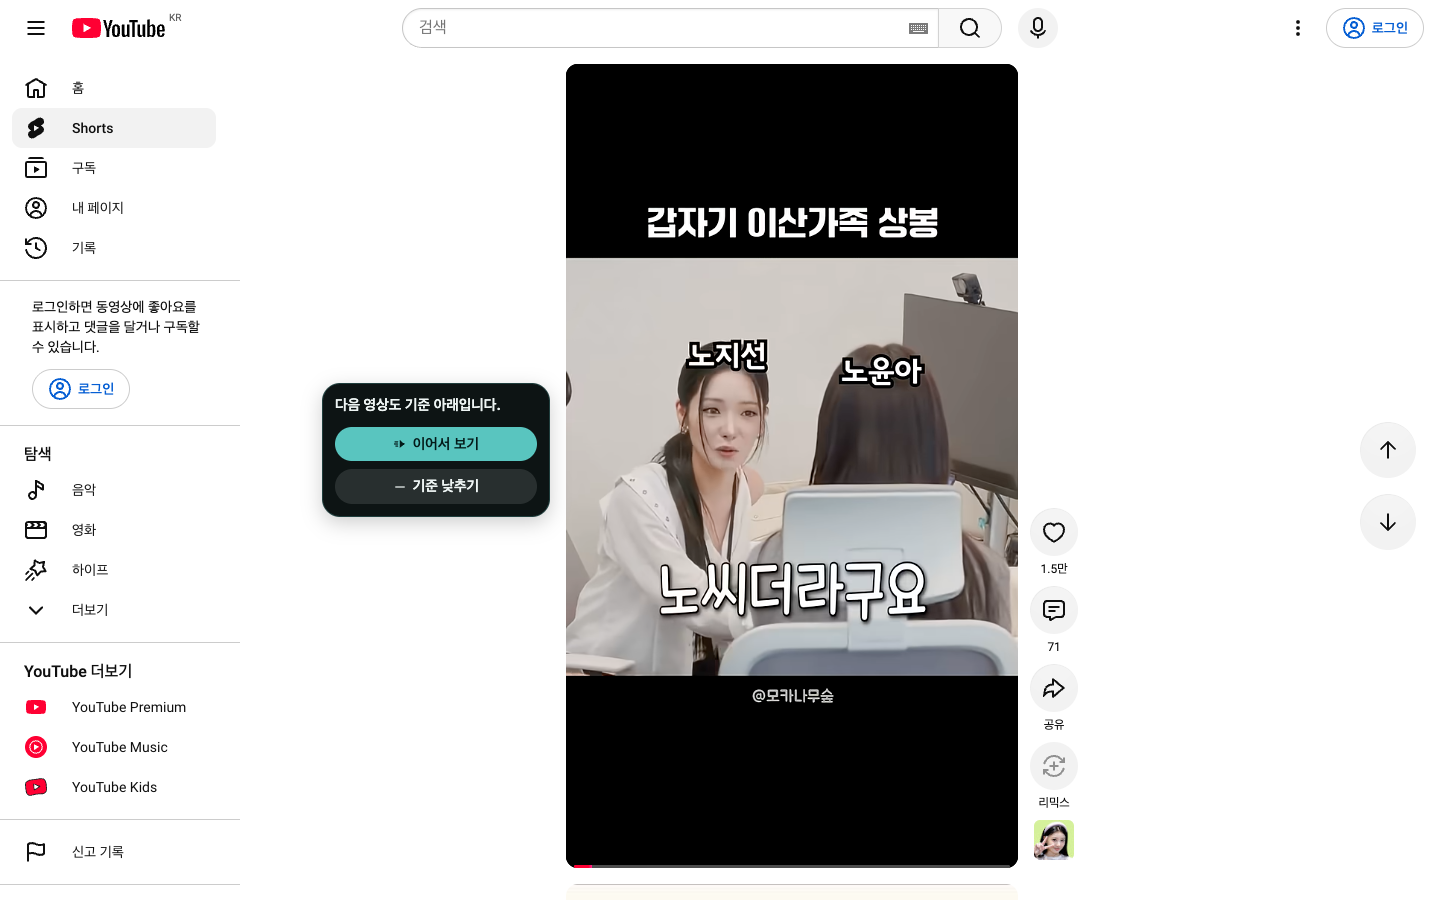
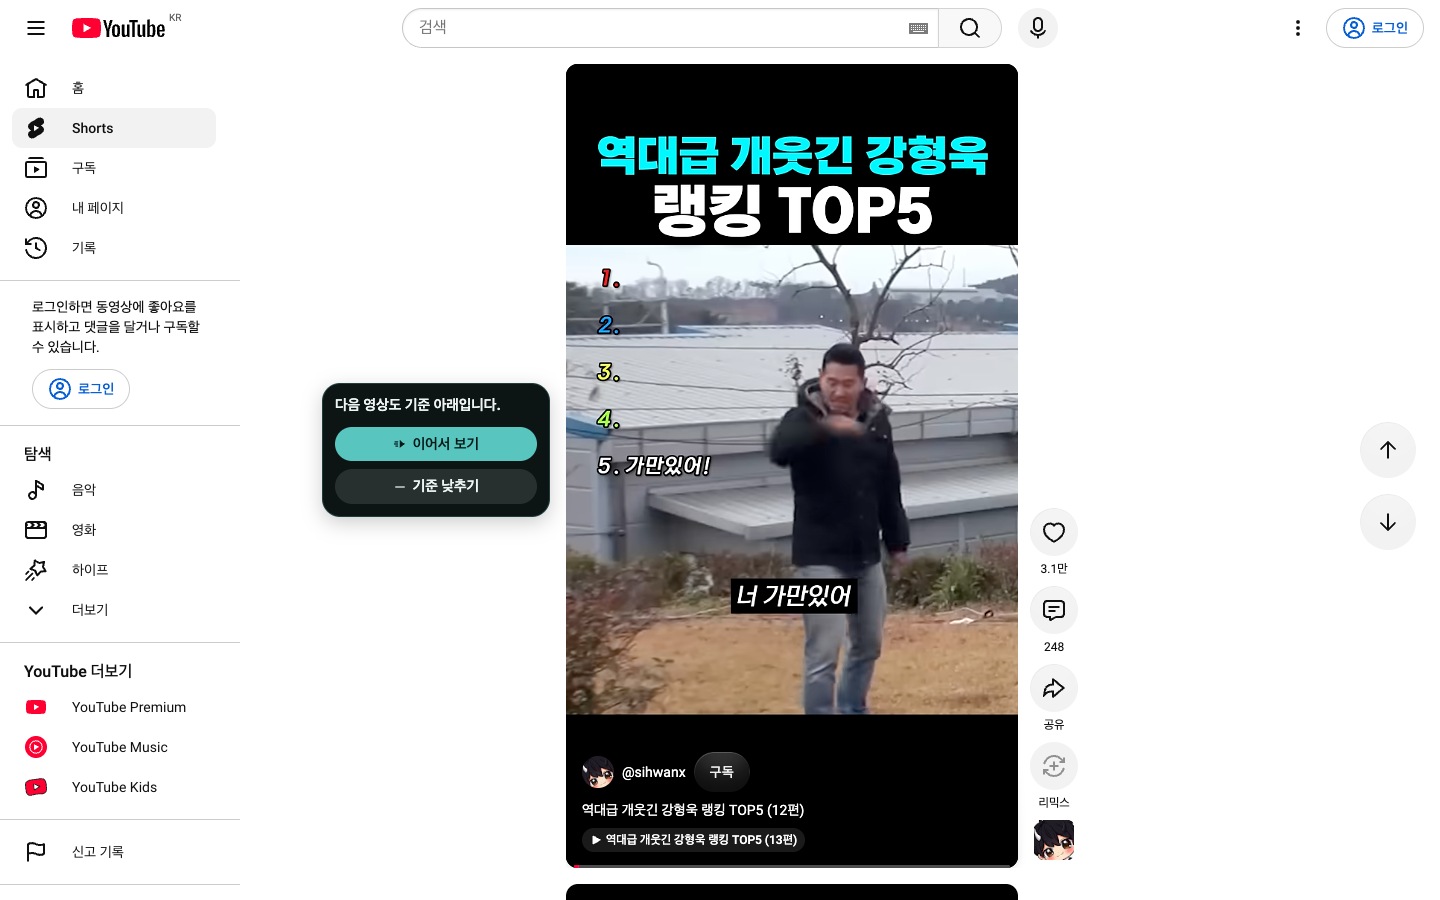
Hide notices while the player column animates

Changed region(s): [[0.375, 0.1244, 0.7188, 0.8089], [0.375, 0.84, 0.7188, 1.0], [0.7188, 0.9022, 0.75, 0.9644]]

diff --git a/src/content/chip.ts b/src/content/chip.ts
@@ -97,7 +97,8 @@ export function mountChip(actions: { undo: () => void; keepGoing: () => void; lo
   let previousModel = "null";
   let watching = false;
   let frame: number | null = null;
-  let motionUntil = 0;
+  const transitions = new Map<Element, Set<string>>();
+  let transitionFocus: HTMLElement | null = null;
   let watchedAnchor: HTMLElement | null = null;
   const ancestors = new Set<Element>();
   const resized = new ResizeObserver(() => queuePlace());
@@ -128,11 +129,26 @@ export function mountChip(actions: { undo: () => void; keepGoing: () => void; lo
     window.addEventListener("scroll", () => queuePlace(), { capture: true, passive: true });
     document.addEventListener("transitionrun", (event) => {
       if (!watching || !(event.target instanceof Element) || !ancestors.has(event.target)) return;
-      // Follow the moving column while a panel animates. There is no repeating placement work on an idle page.
-      motionUntil = performance.now() + 600;
-      queuePlace();
+      if (!transitions.size && document.activeElement === host) {
+        const focused = host?.shadowRoot?.activeElement;
+        transitionFocus = focused instanceof HTMLElement ? focused : null;
+      }
+      // A delayed frame can move the player farther than the gutter gap. Hide through the transition instead of chasing it.
+      const properties = transitions.get(event.target) ?? new Set<string>();
+      properties.add(event.propertyName);
+      transitions.set(event.target, properties);
+      if (host) host.style.visibility = "hidden";
     }, true);
-    document.addEventListener("transitionend", () => queuePlace(), true);
+    const endTransition = (event: TransitionEvent) => {
+      if (!(event.target instanceof Element)) return;
+      const properties = transitions.get(event.target);
+      if (!properties) return;
+      properties.delete(event.propertyName);
+      if (!properties.size) transitions.delete(event.target);
+      queuePlace();
+    };
+    document.addEventListener("transitionend", endTransition, true);
+    document.addEventListener("transitioncancel", endTransition, true);
     document.addEventListener("visibilitychange", () => {
       if (document.hidden) stopWatching();
       else if (previousModel !== "null") { startWatching(); place(); }
@@ -145,7 +161,6 @@ export function mountChip(actions: { undo: () => void; keepGoing: () => void; lo
       frame = null;
       if (!watching || document.hidden) return;
       place();
-      if (performance.now() < motionUntil) queuePlace();
     });
   }
 
@@ -157,6 +172,7 @@ export function mountChip(actions: { undo: () => void; keepGoing: () => void; lo
     resized.disconnect();
     ancestors.clear();
     watchedAnchor = anchor;
+    for (const node of transitions.keys()) if (!chain.includes(node)) transitions.delete(node);
     for (const node of chain) {
       ancestors.add(node);
       resized.observe(node);
@@ -175,7 +191,8 @@ export function mountChip(actions: { undo: () => void; keepGoing: () => void; lo
     resized.disconnect();
     ancestors.clear();
     watchedAnchor = null;
-    motionUntil = 0;
+    transitions.clear();
+    transitionFocus = null;
     if (frame != null) cancelAnimationFrame(frame);
     frame = null;
     if (placeTimer != null) window.clearTimeout(placeTimer);
@@ -245,8 +262,13 @@ export function mountChip(actions: { undo: () => void; keepGoing: () => void; lo
     const onScreen = !!box && box.width > 0 && box.height > 0 && box.right > 0 && box.left < width && box.bottom > 0 && box.top < window.innerHeight;
     // Hide before measuring or moving, so a comments panel cannot reveal a stale position over the video.
     host.style.visibility = "hidden";
+    if (transitions.size) return;
     if (!box || !onScreen || !placeSide(box)) return;
     host.style.visibility = "visible";
+    if (transitionFocus?.isConnected && (document.activeElement === document.body || document.activeElement === host)) {
+      transitionFocus.focus({ preventScroll: true });
+    }
+    transitionFocus = null;
   }
 
   // Place the chip now, and once more a moment later: the video of a feed that is still swapping players may not be there yet.

diff --git a/qa/reviews/left-notice-20261014.html b/qa/reviews/left-notice-20261014.html
@@ -13,7 +13,7 @@
   <img id="run-shot" class="shot" src="../screenshots/left-notice-20261014/08-live-run-comments-open.png" alt="유튜브 댓글을 연 상태에서 왼쪽 여백에 숫자 3과 되돌리기만 표시">
   <p id="run-caption" class="caption"><strong>44px 안에 3과 되돌리기.</strong> 로고와 제목 없이, 영상과 사이드바 사이에 정렬했습니다.</p>
 </div>
-<div class="facts"><div class="fact"><strong>항상 왼쪽</strong><p>오른쪽 대체 배치와 영상 위 배치를 제거했습니다. 예전 위치 설정도 왼쪽으로 통일됩니다.</p></div><div class="fact"><strong>열고 닫으면 함께 이동</strong><p>표시 내용이 같아도 영상의 이동을 따라갑니다. 되돌리기 버튼의 포커스도 유지합니다.</p></div><div class="fact"><strong>자리 없으면 잠시 숨김</strong><p>왼쪽 공간이 없을 때는 화면을 가리지 않습니다. 공간이 생기면 다시 표시합니다.</p></div></div>
+<div class="facts"><div class="fact"><strong>항상 왼쪽</strong><p>오른쪽 대체 배치와 영상 위 배치를 제거했습니다. 예전 위치 설정도 왼쪽으로 통일됩니다.</p></div><div class="fact"><strong>열고 닫으면 함께 이동</strong><p>패널이 움직이는 동안 잠시 숨기고, 이동한 영상의 왼쪽에 다시 표시합니다. 되돌리기 버튼의 포커스도 유지합니다.</p></div><div class="fact"><strong>자리 없으면 잠시 숨김</strong><p>왼쪽 공간이 없을 때는 화면을 가리지 않습니다. 공간이 생기면 다시 표시합니다.</p></div></div>
 <h2>연속 6개에서 멈추는 표시도 같은 규칙</h2><p>좁은 상태에서도 이어서 보기와 기준 낮추기를 사용할 수 있습니다.</p>
 <div class="viewer"><div class="bar"><div class="tabs" aria-label="일시정지 캡처"><button type="button" data-pause="closed" aria-pressed="false">닫힘</button><button type="button" data-pause="open" aria-pressed="true">열림</button><button type="button" data-pause="again" aria-pressed="false">다시 닫힘</button></div><span class="state">같은 영상 · 댓글 열고 닫기</span></div><img id="pause-shot" class="shot" src="../screenshots/left-notice-20261014/05-live-pause-comments-open.png" alt="댓글을 연 유튜브에서 왼쪽에 작은 이어서 보기와 기준 낮추기 버튼"><p class="caption">댓글을 닫으면 왼쪽 카드로 돌아옵니다. 작은 버튼에도 이름과 툴팁이 있습니다.</p></div>
 <h2>확인한 범위</h2><p>단위 검사 126개, 브라우저 전체 검사 78개 및 위치 추가 검사, 빌드와 패키지 검사를 통과했습니다. 위치를 위한 상시 반복 조회도 제거했습니다.</p>

diff --git a/e2e/chip-layout.spec.ts b/e2e/chip-layout.spec.ts
@@ -135,7 +135,7 @@ test("a reparented player keeps following its new container's layout", async ({ 
   expect((await host.boundingBox())!.x + 228).toBeCloseTo(549.875, 0);
 });
 
-test("animated column changes keep the notice left throughout the motion", async ({ page }) => {
+test("animated column changes hide the notice until its left gutter settles", async ({ page }) => {
   await open(page);
   await page.locator("video").evaluate((node: HTMLVideoElement) => { node.style.transition = "left 400ms linear"; });
   await move(page, 301.875);
@@ -148,9 +148,23 @@ test("animated column changes keep the notice left throughout the motion", async
     }
     return values;
   });
-  // Allow one frame of website motion before the matching placement callback runs.
+  expect(observations.some(value => !value.visible), "the notice stays out of a moving player").toBe(true);
   expect(observations.filter(value => value.visible).every(value => value.right <= value.videoLeft + 1)).toBe(true);
+  await expect(page.locator("#scrollplus-chip-host")).toBeVisible();
   await expect.poll(async () => (await page.locator("#scrollplus-chip-host").boundingBox())?.width).toBe(44);
+});
+
+test("cancelling a column transition restores the notice instead of leaving it hidden", async ({ page }) => {
+  await open(page);
+  await page.getByRole("button", { name: "Undo" }).focus();
+  await page.locator("video").evaluate((node: HTMLVideoElement) => { node.style.transition = "left 1s linear"; });
+  await move(page, 301.875);
+  const host = page.locator("#scrollplus-chip-host");
+  await expect(host).toBeHidden();
+  await page.locator("video").evaluate((node: HTMLVideoElement) => { node.style.transition = "none"; });
+  await expect(host).toBeVisible();
+  await expect.poll(async () => (await host.boundingBox())?.width).toBe(44);
+  await expect(page.getByRole("button", { name: "Undo" })).toBeFocused();
 });
 
 test("placement has no idle polling and stops after the notice is dismissed", async ({ page }) => {

diff --git a/qa/left-notice-20261014.md b/qa/left-notice-20261014.md
@@ -8,13 +8,13 @@ Opening comments could leave the old notice over the video. The renderer only re
 - Narrow gutter: 44 px, 8 px clear of the player, showing only 1–3 and Undo. There is no glow or expanding ring. Pause controls remain labelled icon buttons with 40 px targets.
 - No safe left space: hide the notice until space returns. Filtering and the six-skip safety limit remain active; a hidden pause still stops further automatic moves. Widening the window restores its controls. There is no right or video overlay fallback, including legacy saved positions. Settings retains the visibility switch and retires the position picker.
 - A kept Instagram photo can anchor the preceding video's Undo. This is layout support; photos are still kept.
-- Position observers run only while an active notice is shown in a visible tab. Changes coalesce into an animation frame. Ancestor transitions have a bounded 600 ms follow period; idle pages have no position polling. Dismissal and hidden tabs disconnect observers and cancel scheduled placement.
+- Position observers run only while an active notice is shown in a visible tab. Changes coalesce into an animation frame. During ancestor CSS transitions the notice stays hidden until transition end/cancel, avoiding overlap when a delayed frame moves the player more than the gutter gap; idle pages have no position polling. Dismissal and hidden tabs disconnect observers and cancel scheduled placement.
 
 ## Verification
 
-`npm run compile`, 126 unit checks, the initial full 78-check browser suite, production build, ZIP and `scripts/check-package.mjs` passed locally. After the final reparenting and transparent-wrapper fixes, all 13 targeted notice checks and the production build passed; the live safety-pause capture was repeated successfully. The three-reason capture predates those final lifecycle fixes and uses the same visual tokens. The unchanged CI also runs the complete suite in current Chromium and minimum Chrome 120 before landing.
+`npm run compile`, 126 unit checks, the initial full 78-check browser suite, production build, ZIP and `scripts/check-package.mjs` passed locally. After the final reparenting and transparent-wrapper fixes, all 14 targeted notice checks and the production build passed; the live safety-pause capture was repeated successfully. The three-reason capture predates those final lifecycle/transition fixes and uses the same visual tokens. The first Chrome 120 CI run caught a transient overlap during column animation. The renderer was changed to hide throughout the transition; the regression is retained, and transition cancellation is also tested. The unchanged CI runs the final suite in current Chromium and minimum Chrome 120 before landing.
 
-Nine new browser checks cover unchanged-model comments opening/closing, focus and button identity, one-skip compact Undo, a blocked left gutter with free right space, compact pause controls, video replacement, photo replacement, reparenting, animated column movement and zero idle/dismissed hit testing. Existing adapter fixtures now provide a left gutter for Undo interaction; the separate no-space regression explicitly checks hiding and recovery.
+Ten new browser checks cover unchanged-model comments opening/closing, focus and button identity, one-skip compact Undo, a blocked left gutter with free right space, compact pause controls, video replacement, photo replacement, reparenting, animated column movement, transition cancellation and zero idle/dismissed hit testing. Existing adapter fixtures now provide a left gutter for Undo interaction; the separate no-space regression explicitly checks hiding and recovery.
 
 Real unpacked candidate extension, fresh signed-out YouTube profile, Chromium from Playwright, 1440 × 900 CSS px, device scale 1:
 

diff --git a/SPEC.md b/SPEC.md
@@ -171,7 +171,7 @@ The chip is the only thing ScrollPlus adds to a site. It must be seen on any vid
 
 - Position: always the video's left gutter. Legacy saved top, middle and lower positions normalize to side; the position picker is retired. Other settings are preserved, and the notice can still be turned off.
 - Beside the video means the left gutter only. The card is 228 px wide and 16 px from the video, vertically centred on the window, at least 72 px below its top and 24 px above its bottom. A scrolling feed such as TikTok keeps a stable vertical position. When the full card would cover a site control or text, try a 44 px compact chip 8 px from the video. It shows only the count and Undo, with no logo, heading or reasons. Reasons remain available in its tooltip and accessible name. A compact pause chip keeps icon buttons for Keep going and Lower the bar, with accessible labels and tooltips. If neither size fits safely on the left, or the video is off-screen or temporarily missing, hide the chip until safe space returns. Never automatically move it to the right or over the video. Test nine points against site controls, text, navigation and dialogs; if hit testing fails, hide the chip.
-- The chip follows anchor and ancestor size/style changes, player replacement, scrolling, panel transitions and window resizing while it is shown. Layout events are coalesced into an animation frame, with a bounded 600 ms follow period for ancestor transitions and one 250 ms settle after a model change. There is no idle position polling. Observers and scheduled placement stop when the notice is dismissed or the tab is hidden; returning resumes only a still-active notice. Repositioning preserves the Undo button and its focus.
+- The chip follows anchor and ancestor size/style changes, player replacement, scrolling, panel transitions and window resizing while it is shown. Layout events are coalesced into an animation frame, with one 250 ms settle after a model change. During ancestor CSS transitions it stays hidden until transition end/cancel, so a delayed frame cannot expose a stale position over a moving player. There is no idle position polling. Observers and scheduled placement stop when the notice is dismissed or the tab is hidden; returning resumes only a still-active notice. Repositioning preserves the Undo button and its focus.
 - Bottom, 32 px from the window's edge as in 0.4.4, is gone: it sat on the caption, and on a dark video the dark chip could not be told from the video.
 - Look: see Visual system.
 - The chip is shown for 2.5 seconds after the last skip. A skip that follows a skip updates the same chip instead of showing a new one. The full chip has no head or mark for a run: it lists at most three reasons, newest first, with older ones fainter, and Undo. The compact chip shows 1, 2 or 3 and Undo. One skip in the full chip shows the mark and "Skipped · 454 likes", and Undo. Undo still moves back one item, the newest. The pause chip ("The next ones are under your bar.") follows the same left-gutter safety rules.
